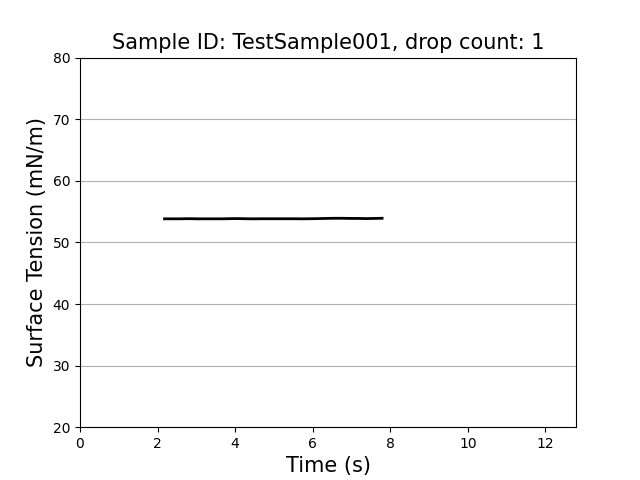
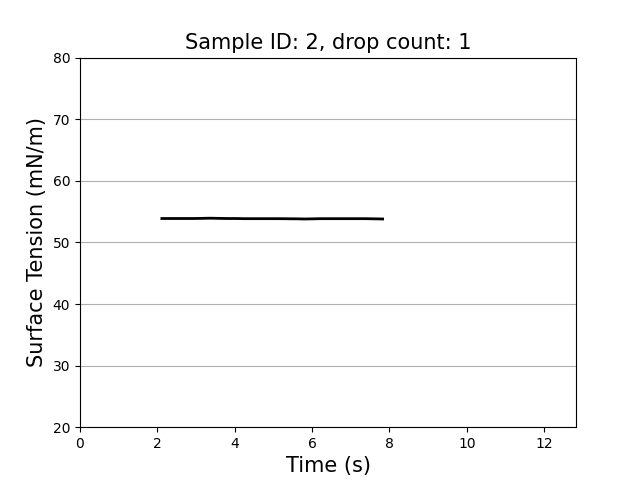
protocol

diff --git a/src/pendantprop/utils/load_save_functions.py b/src/pendantprop/utils/load_save_functions.py
@@ -1,0 +1,185 @@
+# Imports
+
+## Packages
+import os
+import json
+import csv
+import subprocess
+import pandas as pd
+
+from opentrons_api.containers import Container
+from pendantprop.hardware.sensor_api import SensorAPI
+from pendantprop.utils.utils import calculate_equillibrium_value
+
+def save_csv_file(exp_name: str, subdir_name: str, csv_file, app):
+    #TODO fix
+    """
+    Save csv file in experiment directory
+
+    :param exp_name: Experiment name
+    :param subdir_name: Subdirectory name (meta_data, experiment_data, etc)
+    :param csv_file: File to save
+    :param app: Flask app
+
+    :return: None
+    """
+
+    exp_dir = os.path.join(
+        app.config["UPLOAD_FOLDER"], f"{exp_name}/{subdir_name}"
+    )
+    os.makedirs(exp_dir, exist_ok=True)
+    file_path = os.path.join(exp_dir, csv_file.filename)
+    csv_file.save(file_path)
+
+
+
+# def save_calibration_data(scale_t: list):
+#     settings = load_settings()
+#     df = pd.DataFrame(scale_t, columns=["time (s)", "scale"])
+#     df.to_csv(f"experiments/{settings['EXPERIMENT_NAME']}/calibration.csv")
+
+
+def initialize_results(type: str) -> pd.DataFrame: 
+    # Initialize an empty DataFrame with the required columns
+    if type == "wells":
+        return pd.DataFrame(
+            columns=[
+                "sample id",
+                "surface tension eq. (mN/m)",
+                "drop count",
+                "drop volume (uL)",
+                "measure time (s)",
+                "temperature (C)",
+                "humidity (%)",
+                "pressure (Pa)",
+            ]
+        )
+    elif type == "serial_dilution":
+        return pd.DataFrame(
+            columns=[
+                "sample id",
+                "solution",
+                "concentration",
+                "surface tension eq. (mN/m)",
+                "drop count",
+                "drop volume (uL)",
+                "measure time (s)",
+                "temperature (C)",
+                "humidity (%)",
+                "pressure (Pa)",
+            ]
+        )
+
+def append_results(
+    results: pd.DataFrame,
+    settings: dict,
+    dynamic_surface_tension: list,
+    container: Container,
+    drop_parameters: dict,
+    n_eq_points: int,
+    sensor_api: SensorAPI,
+    type: str,
+):
+    if dynamic_surface_tension:
+        save_dynamic_surface_tension(settings, dynamic_surface_tension, container=container)
+        st_eq = calculate_equillibrium_value(
+            x=dynamic_surface_tension,
+            n_eq_points=n_eq_points,
+            column_index=1,
+        )
+        results = add_data_to_results(
+            type=type,
+            results=results,
+            container=container,
+            surface_tension_eq=st_eq,
+            drop_parameters=drop_parameters,
+            sensor_api=sensor_api,
+        )
+    else:
+        print("Was not able to measure pendant drop!")
+    return results
+
+
+def save_dynamic_surface_tension(settings: dict, dynamic_surface_tension: list, container: Container):
+    sample_id = container.sample_id
+    if sample_id is None:
+        sample_id = container.WELL_ID
+    file_settings = settings["file_settings"]
+    df = pd.DataFrame(
+        dynamic_surface_tension, columns=["time (s)", "surface tension (mN/m)"]
+    )
+    folder = f"{file_settings['output_folder']}/{file_settings['exp_tag']}/{file_settings['data_folder']}/{sample_id}"
+    os.makedirs(folder, exist_ok=True)
+    df.to_csv(
+        f"{folder}/dynamic_surface_tension.csv"
+    )
+
+
+def add_data_to_results(
+    type: str,
+    results: pd.DataFrame,
+    container: Container,
+    surface_tension_eq: float,
+    drop_parameters: dict,
+    sensor_api=SensorAPI,
+):
+    sensor_data = sensor_api.capture_sensor_data()
+    if type == "wells":
+        new_row = pd.DataFrame(
+            {
+                "sample id": [container.sample_id],
+                "surface tension eq. (mN/m)": [surface_tension_eq],
+                "drop count": [drop_parameters["drop_count"]],
+                "drop volume (uL)": [drop_parameters["drop_volume"]],
+                "measure time (s)": [drop_parameters["measure_time"]],
+                "temperature (C)": [float(sensor_data["Temperature (C)"])],
+                "humidity (%)": [float(sensor_data["Humidity (%)"])],
+                "pressure (Pa)": [float(sensor_data["Pressure (Pa)"])],
+            }
+        )
+        results = pd.concat([results, new_row], ignore_index=True)
+        return results
+    elif type == "serial_dilution":
+        new_row = pd.DataFrame(
+            {
+                "well id": [container.WELL_ID],
+                "solution": [container.solution_name],
+                "concentration": [container.concentration],
+                "surface tension eq. (mN/m)": [surface_tension_eq],
+                "drop count": [drop_parameters["drop_count"]],
+                "drop volume (uL)": [drop_parameters["drop_volume"]],
+                "measure time (s)": [drop_parameters["measure_time"]],
+                "flow rate (uL/s)": [drop_parameters["flow_rate"]],
+                "temperature (C)": [float(sensor_data["Temperature (C)"])],
+                "humidity (%)": [float(sensor_data["Humidity (%)"])],
+                "pressure (Pa)": [float(sensor_data["Pressure (Pa)"])],
+            }
+        )
+        results = pd.concat([results, new_row], ignore_index=True)
+        return results
+    else:
+        print(f"Unknown results type: {type}")
+
+def save_results(results: pd.DataFrame, settings: dict):
+    file_settings = settings["file_settings"]
+    folder = f"{file_settings['output_folder']}/{file_settings['exp_tag']}/{file_settings['data_folder']}"
+    os.makedirs(folder, exist_ok=True)
+    file_name_results = (
+        f"{folder}/results.csv"
+    )
+    results.to_csv(file_name_results, index=False)
+
+def load_commit_hash():
+    try:
+        commit_hash = (
+            subprocess.check_output(["git", "rev-parse", "HEAD"])
+            .strip()
+            .decode("utf-8")
+        )
+        return commit_hash
+    except subprocess.CalledProcessError:
+        return None
+
+
+if __name__ == "__main__":
+    pass

diff --git a/src/pendantprop/protocol.py b/src/pendantprop/protocol.py
@@ -1,0 +1,132 @@
+import pandas as pd
+import warnings
+
+from opentrons_api.load_save_functions import load_settings
+from opentrons_api.logger import Logger
+from opentrons_api.containers import Container
+from pendantprop.hardware.opentrons.config import Config
+from pendantprop.hardware.droplet_management import DropletManager
+from pendantprop.analysis.plots import Plotter
+from pendantprop.hardware.sensor_api import SensorAPI
+from pendantprop.utils.load_save_functions import (
+    initialize_results,
+    append_results,
+    save_results,
+)
+
+## Surpress warning pandas
+warnings.filterwarnings(
+    "ignore",
+    category=FutureWarning,
+    message="The behavior of DataFrame concatenation with empty or all-NA entries is deprecated",
+)
+
+class Protocol:
+    def __init__(self):
+        self.settings = load_settings(file_path="config/settings.json")
+        self.file_settings = self.settings["file_settings"]
+        self.config = Config(settings=self.settings)
+        self.left_pipette, self.right_pipette, self.containers = self.config.load_all()
+        self.plotter = Plotter(settings=self.settings)
+        self.sensor_api = SensorAPI(settings=self.settings)
+        self.droplet_manager = DropletManager(
+            settings=self.settings,
+            left_pipette=self.left_pipette,
+            containers=self.containers,
+        )
+        self.logger = Logger(
+            name="protocol",
+            file_path=f'{self.file_settings["output_folder"]}/{self.file_settings["exp_tag"]}/{self.file_settings["meta_data_folder"]}',
+        )
+
+        self.results = None
+        self.left_pipette.pick_up_tip()
+        self.logger.info("Protocol initialized successfully.")
+    
+    def measure_well(self, well_id: str, type: str = "wells"):
+        if self.results is None:
+            self.results = initialize_results(type=type)
+        well_to_measure = self.containers[well_id]
+        st_t, drop_volume, measure_time, drop_count = self.droplet_manager.measure_pendant_drop(source=well_to_measure)
+        drop_parameters = self._create_drop_parameters(
+            drop_volume=drop_volume,
+            measure_time=measure_time,
+            drop_count=drop_count,
+        )
+        self._append_save_plot_results(
+            dynamic_surface_tension=st_t,
+            container=well_to_measure,
+            drop_parameters=drop_parameters,
+            type=type
+        )
+
+
+    def measure_wells(self):
+        self.logger.info("Starting measure wells protocol...\n\n\n")
+        sample_info = pd.read_csv(f"{self.file_settings['sample_info_filepath']}")
+        self._set_sampleID_in_container(sample_info=sample_info)
+        if self.results is None:
+            self.results = initialize_results(type="wells")
+        well_ids = sample_info["well ID"].tolist()
+        for well_id in well_ids:
+            self.measure_well(well_id=well_id)
+
+        self.logger.info("Finished measure wells protocol.\n\n\n")
+        self.config.home()
+
+    def measure_plate(self):
+        pass
+
+    def measure_serial_dilution(self):
+        type = "characterization"
+        pass
+
+    def _create_drop_parameters(
+        self, drop_volume: float, measure_time: float, drop_count: int
+    ) -> dict:
+        """
+        Create a dictionary of drop parameters.
+        """
+        return {
+            "drop_volume": drop_volume,
+            "measure_time": measure_time,
+            "drop_count": drop_count,
+        }
+
+    def _append_save_plot_results(
+        self,
+        dynamic_surface_tension: list,
+        container: Container,
+        drop_parameters: dict,
+        type: str
+    ) -> None:
+        """
+        Append results, save them, and plot the results. Plots based on the specified plot type (either well or concentration)
+        """
+        self.results = append_results(
+            results=self.results,
+            settings=self.settings,
+            dynamic_surface_tension=dynamic_surface_tension,
+            container=container,
+            drop_parameters=drop_parameters,
+            n_eq_points=self.settings["pendant_drop_settings"]["n_equilibration_points"],
+            sensor_api=self.sensor_api,
+            type = type
+        )
+        save_results(self.results, settings=self.settings)
+        # if type == "wells":
+        #     self.plotter.plot_results_well_id(
+        #         df=self.results
+        #     )
+        # elif type == "characterization":
+        #     self.plotter.plot_results_concentration(
+        #         df=self.results, container=container
+        #     )
+
+    def _set_sampleID_in_container(self, sample_info: pd.DataFrame):
+        well_ids = sample_info["well ID"].tolist()
+        sample_ids = sample_info["sample ID"].tolist()
+        for well_id, sample_id in zip(well_ids, sample_ids):
+            if well_id in self.containers:
+                self.containers[well_id].sample_id = sample_id
+        

diff --git a/src/pendantprop/hardware/droplet_management.py b/src/pendantprop/hardware/droplet_management.py
@@ -57,8 +57,8 @@ class DropletManager:
         if simulate:
             self.logger.info("Using Mock Pendant Drop Camera (simulate mode enabled)")
             self.pd_cam = MockPendantDropCamera(settings=settings)
-            self.CHECK_TIME = 0.0001  # speed up checks in simulate mode
-            self.MAX_MEASURE_TIME = 0.1  # speed up measurements in simulate mode
+            self.CHECK_TIME = 0.00001  # speed up checks in simulate mode
+            self.MAX_MEASURE_TIME = 0.001  # speed up measurements in simulate mode
         else:
             self.logger.info("Using Real Pendant Drop Camera")
             self.pd_cam = PendantDropCamera(settings=settings)
@@ -131,11 +131,9 @@ class DropletManager:
             self.logger.warning(
                 f"No valid measurement was performed for {self.source.WELL_ID} after {self.MAX_RETRIES} attempts."
             )
-
-        return dynamic_surface_tension, drop_volume, self.drop_count
+        return dynamic_surface_tension, drop_volume, self.MAX_MEASURE_TIME, self.drop_count #TODO later dynamic measure time
 
     def _prepare_pendant_drop(self):
-
         self.logger.info("Preparing pendant drop.")
         # initialize left pipette
 
@@ -183,7 +181,7 @@ class DropletManager:
         )
         while (
             not (self.WORTINGTON_NUMBER_LIMIT_LOWER <= wortington_number)
-            # and drop_volume < 17 #? settings?
+            and drop_volume < 17
         ):
             self.left_pipette.dispense(
                 volume=self.DROP_VOLUME_INCREASE_RESOLUTION,

diff --git a/scripts/test_protocol.py b/scripts/test_protocol.py
@@ -1,0 +1,4 @@
+from pendantprop.protocol import Protocol
+
+protocol = Protocol()
+protocol.measure_wells()
